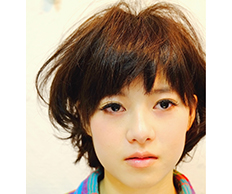
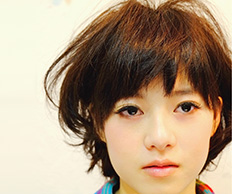
メニューページ画像修正

diff --git a/templates/menus/index.php b/templates/menus/index.php
@@ -16,7 +16,7 @@ $settings = (object) array(
    </div>
  
  <div class="panel m-detail">
-     <p><img src="/public/images/menus/trend06.jpg">
+     <p><img src="/public/images/menus/trend01.jpg">
      </p>
    </div><!--
 
@@ -31,7 +31,7 @@ $settings = (object) array(
    </div><!--
 
 --><div class="panel m-detail">
-     <p><img src="/public/images/menus/trend05.jpg">
+     <p><img src="/public/images/menus/trend06.jpg">
        </p>
    </div>
    
